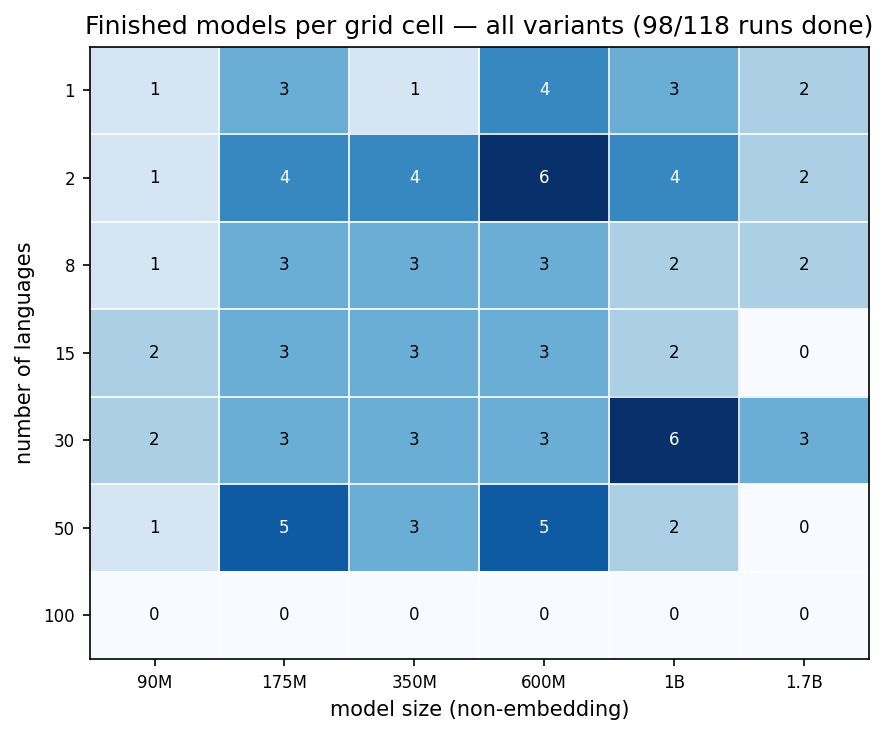
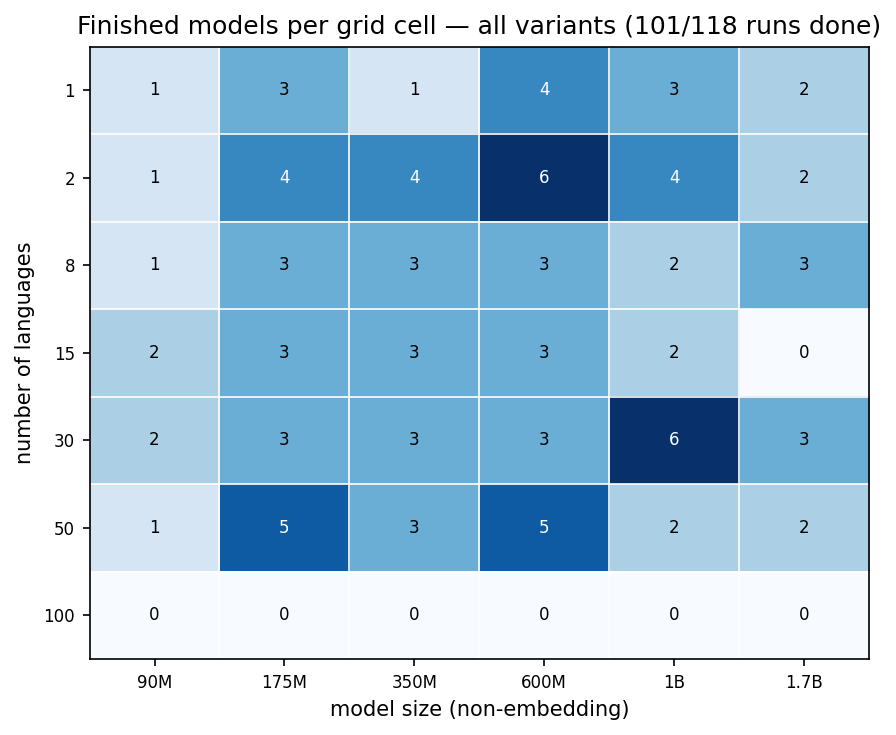
update progress

diff --git a/src/pretrain/pretrain_progress_1b_17b.md b/src/pretrain/pretrain_progress_1b_17b.md
@@ -3,7 +3,7 @@
 <!-- Generated by pretrain_progress.py (--plot, every `launch_trainings.py cscs`
 launch, every auto-eval watcher pass) — do not edit. -->
 
-Snapshot 2026-09-16 00:58. One row per planned run, deep then shallow, of
+Snapshot 2026-09-16 23:14. One row per planned run, deep then shallow, of
 every account: the queue is read for all users, the training logs from both
 mariagrandury's and aromanou's log dirs, the checkpoints from the shared
 `Meg-Runs/msnr` tree.
@@ -21,7 +21,7 @@ mariagrandury's and aromanou's log dirs, the checkpoints from the shared
   running one does not (what it trains before its exit is subtracted first).
   At `ITER_MS` with 10.8h of training per job.
 
-## 1B — 44 runs: 19 done · 1 running · 6 queued · 1 idle · 17 not started · ≈ 5,905 node-hours of training left
+## 1B — 44 runs: 19 done · 5 queued · 3 idle · 17 not started · ≈ 5,797 node-hours of training left
 
 | run | data (FineWeb-2) | ckpt / target | % | state | jobs left |
 |---|---|---|---:|---|---:|
@@ -50,19 +50,19 @@ mariagrandury's and aromanou's log dirs, the checkpoints from the shared
 | `lm-1B-L2-ES-deep-seed1904` | `data/ES/fineweb_L2` | 24,003 / 45,720 | 52% | ⚠ idle: nothing queued | 1 |
 | `lm-1B-L1-shallow-seed28` | English only | 0 / 45,920 | 0% | not started | 2 |
 | `lm-1B-L1-shallow-seed1797` | English only | 0 / 45,920 | 0% | not started | 2 |
-| `lm-1B-L1-shallow-seed1904` | English only | 0 / 45,920 | 0% | queued `3409369` (aromanou, ReqNodeNotAvail, Reserved for maintenance), starts ~Wed 16 Sep 19:00 | 2 |
+| `lm-1B-L1-shallow-seed1904` | English only | 0 / 45,920 | 0% | queued `3409369` (aromanou, PartitionDown) | 2 |
 | `lm-1B-L2-shallow-seed28` | `data/fineweb_L2` | 0 / 45,920 | 0% | not started | 2 |
 | `lm-1B-L2-shallow-seed1797` | `data/fineweb_L2` | 0 / 45,920 | 0% | not started | 2 |
-| `lm-1B-L2-shallow-seed1904` | `data/fineweb_L2` | 22,960 / 45,920 | 50% | running `3409370` (aromanou), iter 23,375, job ends Wed 16 Sep 05:50 | 1 |
-| `lm-1B-L8-shallow-seed1904` | `data/fineweb_L8` | 0 / 45,920 | 0% | queued `3409371` (aromanou, ReqNodeNotAvail, Reserved for maintenance), starts ~Wed 16 Sep 19:00 | 2 |
-| `lm-1B-L15-shallow-seed1904` | `data/fineweb_L15` | 0 / 45,920 | 0% | queued `3409372` (aromanou, ReqNodeNotAvail, Reserved for maintenance), starts ~Wed 16 Sep 19:00 | 2 |
+| `lm-1B-L2-shallow-seed1904` | `data/fineweb_L2` | 43,027 / 45,920 | 93% | ⚠ idle: nothing queued | 1 |
+| `lm-1B-L8-shallow-seed1904` | `data/fineweb_L8` | 0 / 45,920 | 0% | queued `3409371` (aromanou, PartitionDown) | 2 |
+| `lm-1B-L15-shallow-seed1904` | `data/fineweb_L15` | 0 / 45,920 | 0% | queued `3409372` (aromanou, PartitionDown) | 2 |
 | `lm-1B-L30-shallow-seed28` | `data/fineweb_L30` | 0 / 45,920 | 0% | not started | 2 |
 | `lm-1B-L30-shallow-seed1797` | `data/fineweb_L30` | 0 / 45,920 | 0% | not started | 2 |
-| `lm-1B-L30-shallow-seed1904` | `data/fineweb_L30` | 0 / 45,920 | 0% | queued `3409373` (aromanou, ReqNodeNotAvail, Reserved for maintenance), starts ~Wed 16 Sep 19:00 | 2 |
+| `lm-1B-L30-shallow-seed1904` | `data/fineweb_L30` | 0 / 45,920 | 0% | queued `3409373` (aromanou, PartitionDown) | 2 |
 | `lm-1B-L50-shallow-seed28` | `data/fineweb_L50` | 0 / 45,920 | 0% | not started | 2 |
 | `lm-1B-L50-shallow-seed1797` | `data/fineweb_L50` | 0 / 45,920 | 0% | not started | 2 |
-| `lm-1B-L50-shallow-seed1904` | `data/fineweb_L50` | 0 / 45,920 | 0% | queued `3409374` (aromanou, ReqNodeNotAvail, Reserved for maintenance), starts ~Wed 16 Sep 19:00 | 2 |
-| `lm-1B-L50-AT3-shallow-seed1904` | `data/AT3/fineweb_L50` | 22,960 / 45,920 | 50% | queued `3411605` (mariagrandury, ReqNodeNotAvail, Reserved for maintenance), starts ~Wed 16 Sep 19:00 | 1 |
+| `lm-1B-L50-shallow-seed1904` | `data/fineweb_L50` | 0 / 45,920 | 0% | queued `3409374` (aromanou, PartitionDown) | 2 |
+| `lm-1B-L50-AT3-shallow-seed1904` | `data/AT3/fineweb_L50` | 22,960 / 45,920 | 50% | ⚠ idle: nothing queued | 1 |
 | `lm-1B-L100-AT3-shallow-seed1904` | — (not staged) | 0 / 45,920 | 0% | not started | 2 |
 | `lm-1B-L8-schemeB-shallow-seed1904` | `data/schemeB/fineweb_L8` | 0 / 45,920 | 0% | not started | 2 |
 | `lm-1B-L15-schemeB-shallow-seed1904` | `data/schemeB/fineweb_L15` | 0 / 45,920 | 0% | not started | 2 |
@@ -70,32 +70,32 @@ mariagrandury's and aromanou's log dirs, the checkpoints from the shared
 | `lm-1B-L30-schemeB-shallow-seed1797` | `data/schemeB/fineweb_L30` | 0 / 45,920 | 0% | not started | 2 |
 | `lm-1B-L30-schemeB-shallow-seed1904` | `data/schemeB/fineweb_L30` | 0 / 45,920 | 0% | not started | 2 |
 
-## 1.7B — 22 runs: 11 done · 2 running · 3 queued · 4 idle · 2 not started · ≈ 2,969 node-hours of training left
+## 1.7B — 22 runs: 12 done · 5 running · 3 queued · 2 not started · ≈ 2,906 node-hours of training left
 
 | run | data (FineWeb-2) | ckpt / target | % | state | jobs left |
 |---|---|---|---:|---|---:|
 | `lm-1.7B-L1-deep-seed1904` | English only | 81,000 / 81,000 | 100% | done | — |
 | `lm-1.7B-L2-deep-seed1904` | `data/fineweb_L2` | 81,000 / 81,000 | 100% | done | — |
 | `lm-1.7B-L8-deep-seed1904` | `data/fineweb_L8` | 81,000 / 81,000 | 100% | done | — |
-| `lm-1.7B-L15-deep-seed1904` | `data-92B/fineweb_L15` | 54,000 / 81,000 | 67% | running `3406659` (mariagrandury), iter 54,780, job ends Wed 16 Sep 03:57 | 1 |
+| `lm-1.7B-L15-deep-seed1904` | `data-92B/fineweb_L15` | 60,921 / 81,000 | 75% | running `3415742` (mariagrandury), iter 61,359, job ends Thu 17 Sep 08:46 | 0 |
 | `lm-1.7B-L30-deep-seed1904` | `data/fineweb_L30` | 81,000 / 81,000 | 100% | done | — |
 | `lm-1.7B-L50-deep-seed1904` | `data-92B/fineweb_L50` | 81,000 / 81,000 | 100% | done | — |
 | `lm-1.7B-L50-AT3-deep-seed1904` | `data/AT3/fineweb_L50` | 81,000 / 81,000 | 100% | done | — |
 | `lm-1.7B-L100-AT3-deep-seed1904` | — (not staged) | 0 / 81,000 | 0% | not started | 3 |
 | `lm-1.7B-L8-schemeB-deep-seed1904` | `data/schemeB/fineweb_L8` | 81,000 / 81,000 | 100% | done | — |
-| `lm-1.7B-L15-schemeB-deep-seed1904` | `data-92B/schemeB/fineweb_L15` | 24,300 / 81,000 | 30% | queued `3411557` (mariagrandury, ReqNodeNotAvail, Reserved for maintenance), starts ~Wed 16 Sep 19:00 | 2 |
+| `lm-1.7B-L15-schemeB-deep-seed1904` | `data-92B/schemeB/fineweb_L15` | 24,300 / 81,000 | 30% | queued `3415744` (mariagrandury, ReqNodeNotAvail, Reserved for maintenance), starts ~Thu 17 Sep 14:00 | 2 |
 | `lm-1.7B-L30-schemeB-deep-seed1904` | `data/schemeB/fineweb_L30` | 81,000 / 81,000 | 100% | done | — |
 | `lm-1.7B-L1-shallow-seed1904` | English only | 80,640 / 80,640 | 100% | done | — |
 | `lm-1.7B-L2-shallow-seed1904` | `data/fineweb_L2` | 80,640 / 80,640 | 100% | done | — |
-| `lm-1.7B-L8-shallow-seed1904` | `data/fineweb_L8` | 79,296 / 80,640 | 99% | running `3406662` (mariagrandury), iter 80,507, job ends Wed 16 Sep 03:24 | 0 |
-| `lm-1.7B-L15-shallow-seed1904` | `data-92B/fineweb_L15` | 31,741 / 80,640 | 39% | queued `3406663` (mariagrandury, ReqNodeNotAvail, Reserved for maintenance), starts ~Wed 16 Sep 19:00 | 2 |
+| `lm-1.7B-L8-shallow-seed1904` | `data/fineweb_L8` | 80,640 / 80,640 | 100% | done | — |
+| `lm-1.7B-L15-shallow-seed1904` | `data-92B/fineweb_L15` | 31,741 / 80,640 | 39% | queued `3415746` (mariagrandury, ReqNodeNotAvail, Reserved for maintenance), starts ~Thu 17 Sep 14:00 | 2 |
 | `lm-1.7B-L30-shallow-seed1904` | `data/fineweb_L30` | 80,640 / 80,640 | 100% | done | — |
-| `lm-1.7B-L50-shallow-seed1904` | `data-92B/fineweb_L50` | 63,584 / 80,640 | 78% | ⚠ idle: nothing queued | 1 |
-| `lm-1.7B-L50-AT3-shallow-seed1904` | `data/AT3/fineweb_L50` | 32,729 / 80,640 | 40% | queued `3411592` (mariagrandury, ReqNodeNotAvail, Reserved for maintenance), starts ~Wed 16 Sep 19:00 | 2 |
+| `lm-1.7B-L50-shallow-seed1904` | `data-92B/fineweb_L50` | 63,584 / 80,640 | 79% | running `3415747` (mariagrandury), iter 64,031, job ends Thu 17 Sep 07:31 | 0 |
+| `lm-1.7B-L50-AT3-shallow-seed1904` | `data/AT3/fineweb_L50` | 32,729 / 80,640 | 40% | queued `3415763` (mariagrandury, ReqNodeNotAvail, Reserved for maintenance), starts ~Thu 17 Sep 14:00 | 2 |
 | `lm-1.7B-L100-AT3-shallow-seed1904` | — (not staged) | 0 / 80,640 | 0% | not started | 3 |
-| `lm-1.7B-L8-schemeB-shallow-seed1904` | `data/schemeB/fineweb_L8` | 64,278 / 80,640 | 79% | ⚠ idle: nothing queued | 1 |
-| `lm-1.7B-L15-schemeB-shallow-seed1904` | `data-92B/schemeB/fineweb_L15` | 64,139 / 80,640 | 79% | ⚠ idle: nothing queued | 1 |
-| `lm-1.7B-L30-schemeB-shallow-seed1904` | `data/schemeB/fineweb_L30` | 64,928 / 80,640 | 80% | ⚠ idle: nothing queued | 1 |
+| `lm-1.7B-L8-schemeB-shallow-seed1904` | `data/schemeB/fineweb_L8` | 64,512 / 80,640 | 80% | running `3415750` (mariagrandury), iter 64,699, job ends Thu 17 Sep 07:16 | 0 |
+| `lm-1.7B-L15-schemeB-shallow-seed1904` | `data-92B/schemeB/fineweb_L15` | 64,512 / 80,640 | 80% | running `3415751` (mariagrandury), iter 64,576, job ends Thu 17 Sep 07:16 | 0 |
+| `lm-1.7B-L30-schemeB-shallow-seed1904` | `data/schemeB/fineweb_L30` | 64,928 / 80,640 | 81% | running `3415753` (mariagrandury), iter 65,388, job ends Thu 17 Sep 07:01 | 0 |
 
 ## Launch / resume
 
@@ -113,15 +113,15 @@ cd /iopsstor/scratch/cscs/mariagrandury/Projects/snr-multilingual/src && conda a
 python3.11 pretrain/launch_trainings.py cscs --size 1B  # 2 incomplete: 2 not started
 # python3.11 pretrain/launch_trainings.py cscs --size 1B --scheme AT3  # 1 incomplete: 1 not started; data not staged for L100
 python3.11 pretrain/launch_trainings.py cscs --size 1B --scheme ES  # 1 incomplete: 1 idle
-python3.11 pretrain/launch_trainings.py cscs --size 1B --arch shallow  # 14 incomplete: 8 not started, 5 queued, 1 running
-python3.11 pretrain/launch_trainings.py cscs --size 1B --scheme AT3 --arch shallow  # 2 incomplete: 1 queued, 1 not started; data not staged for L100
+python3.11 pretrain/launch_trainings.py cscs --size 1B --arch shallow  # 14 incomplete: 8 not started, 5 queued, 1 idle
+python3.11 pretrain/launch_trainings.py cscs --size 1B --scheme AT3 --arch shallow  # 2 incomplete: 1 idle, 1 not started; data not staged for L100
 python3.11 pretrain/launch_trainings.py cscs --size 1B --scheme B --arch shallow  # 5 incomplete: 5 not started
 
 # 1.7B
 python3.11 pretrain/launch_trainings.py cscs --size 1.7B  # 1 incomplete: 1 running
 # python3.11 pretrain/launch_trainings.py cscs --size 1.7B --scheme AT3  # 1 incomplete: 1 not started; data not staged for L100
 python3.11 pretrain/launch_trainings.py cscs --size 1.7B --scheme B  # 1 incomplete: 1 queued
-python3.11 pretrain/launch_trainings.py cscs --size 1.7B --arch shallow  # 3 incomplete: 1 running, 1 queued, 1 idle
+python3.11 pretrain/launch_trainings.py cscs --size 1.7B --arch shallow  # 2 incomplete: 1 queued, 1 running
 python3.11 pretrain/launch_trainings.py cscs --size 1.7B --scheme AT3 --arch shallow  # 2 incomplete: 1 queued, 1 not started; data not staged for L100
-python3.11 pretrain/launch_trainings.py cscs --size 1.7B --scheme B --arch shallow  # 3 incomplete: 3 idle
+python3.11 pretrain/launch_trainings.py cscs --size 1.7B --scheme B --arch shallow  # 3 incomplete: 3 running
 ```
